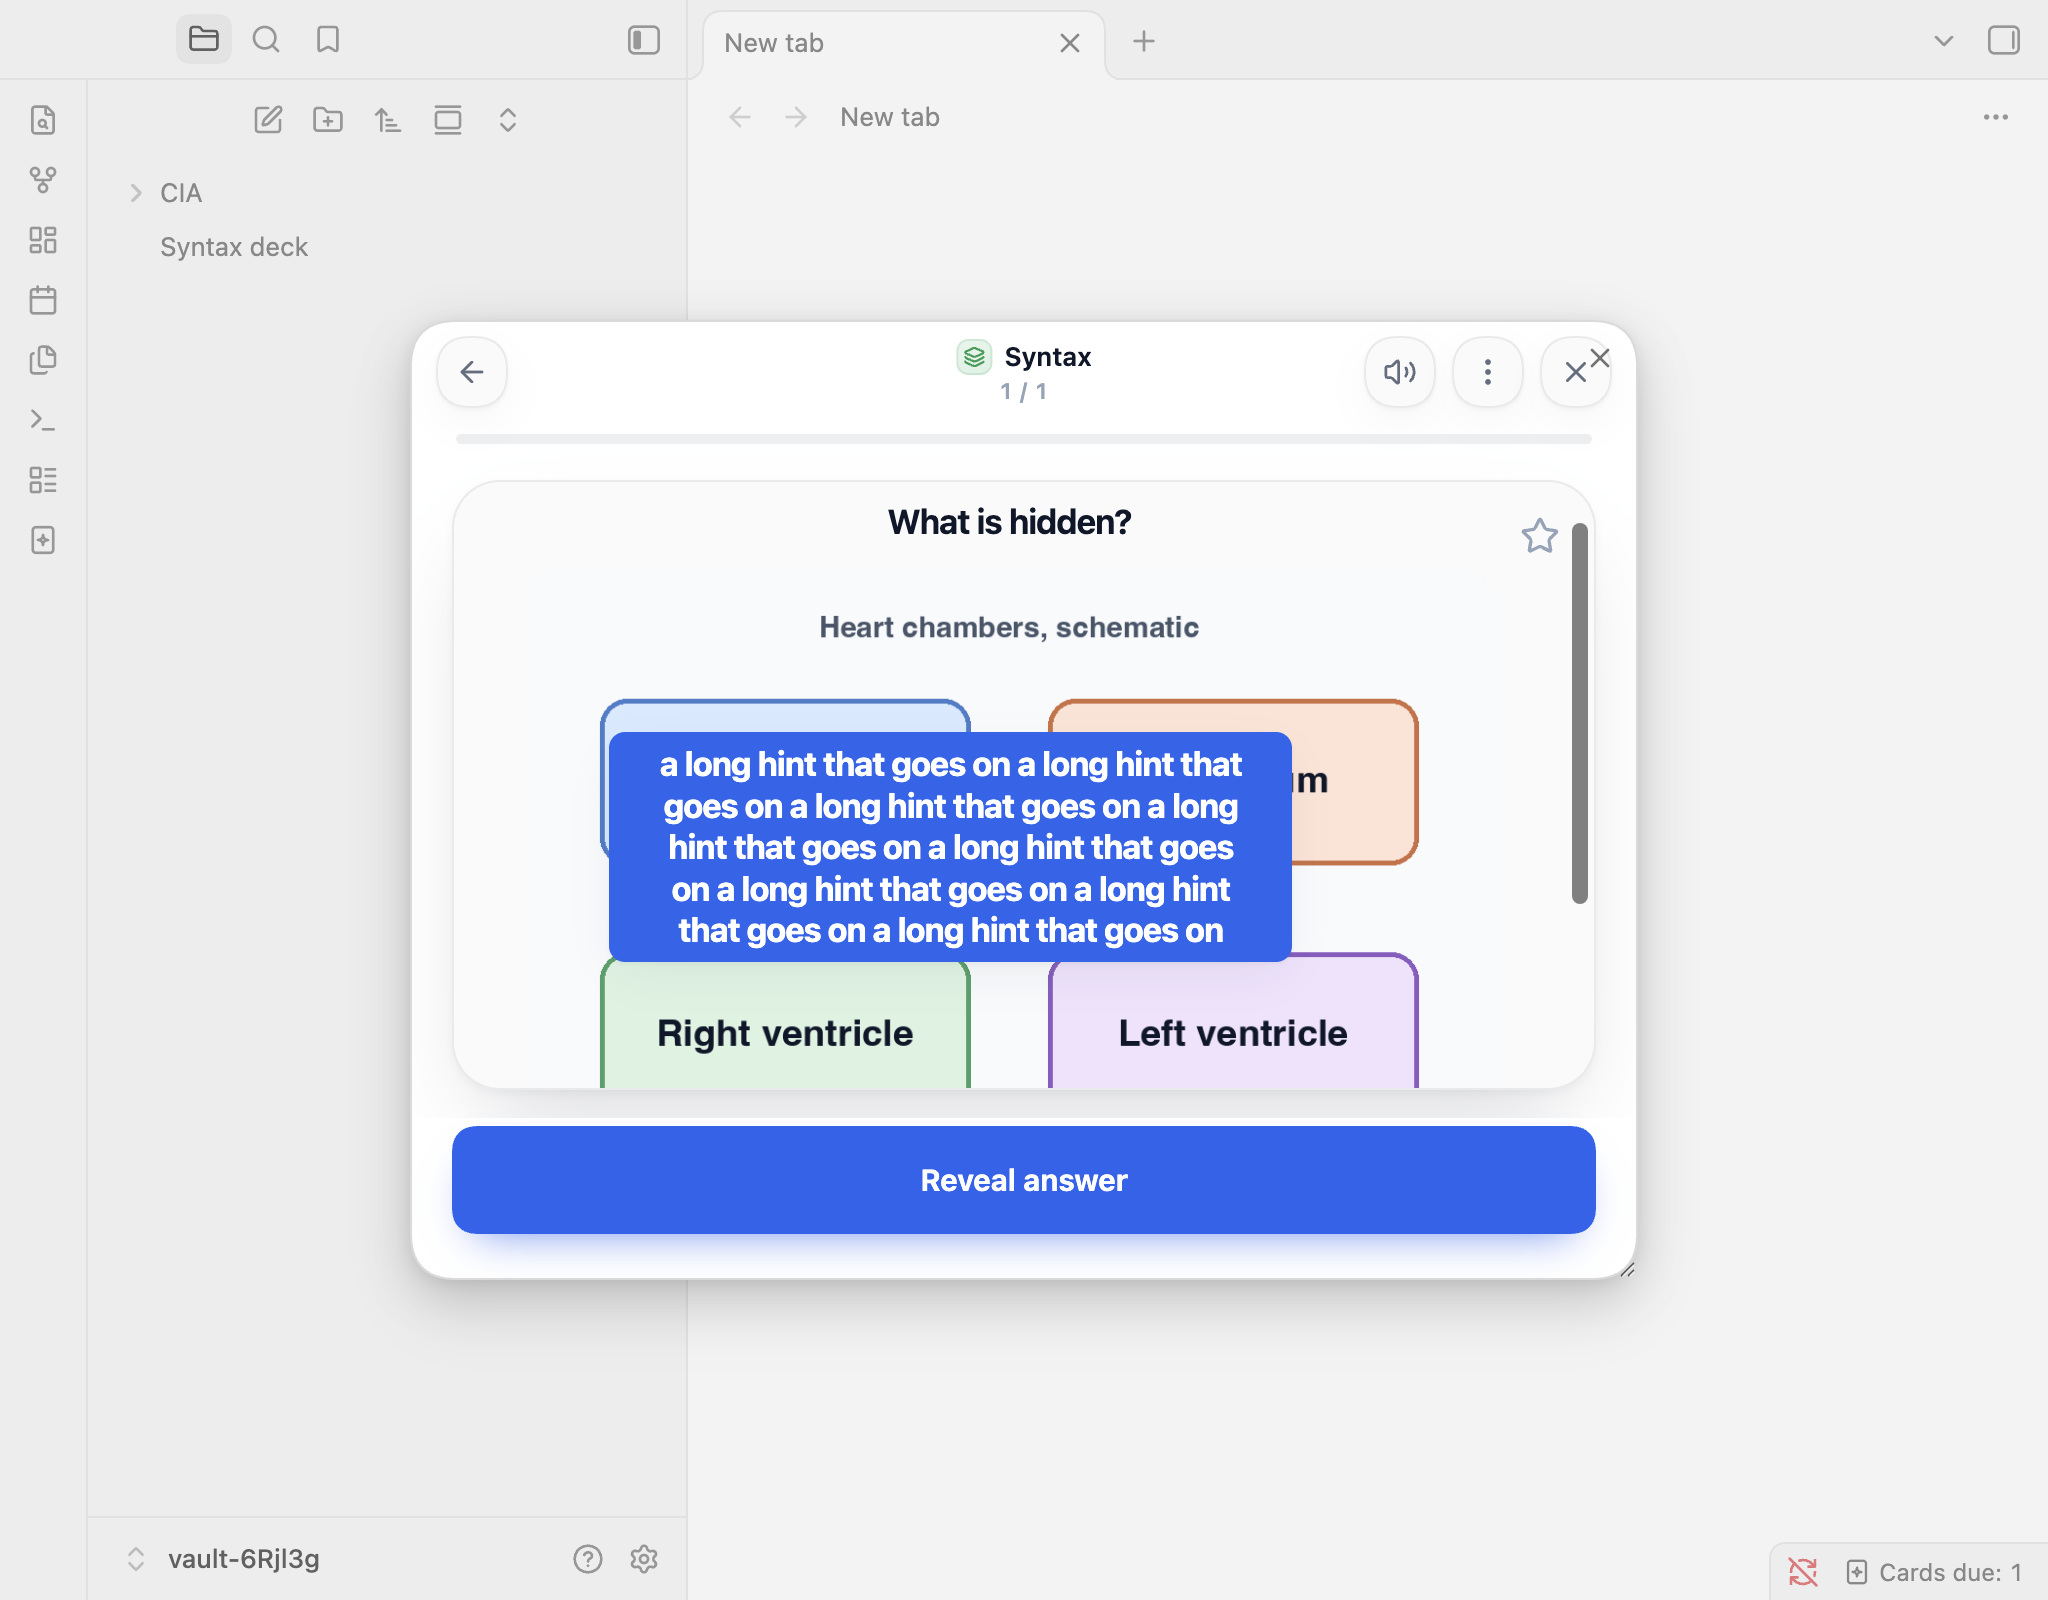
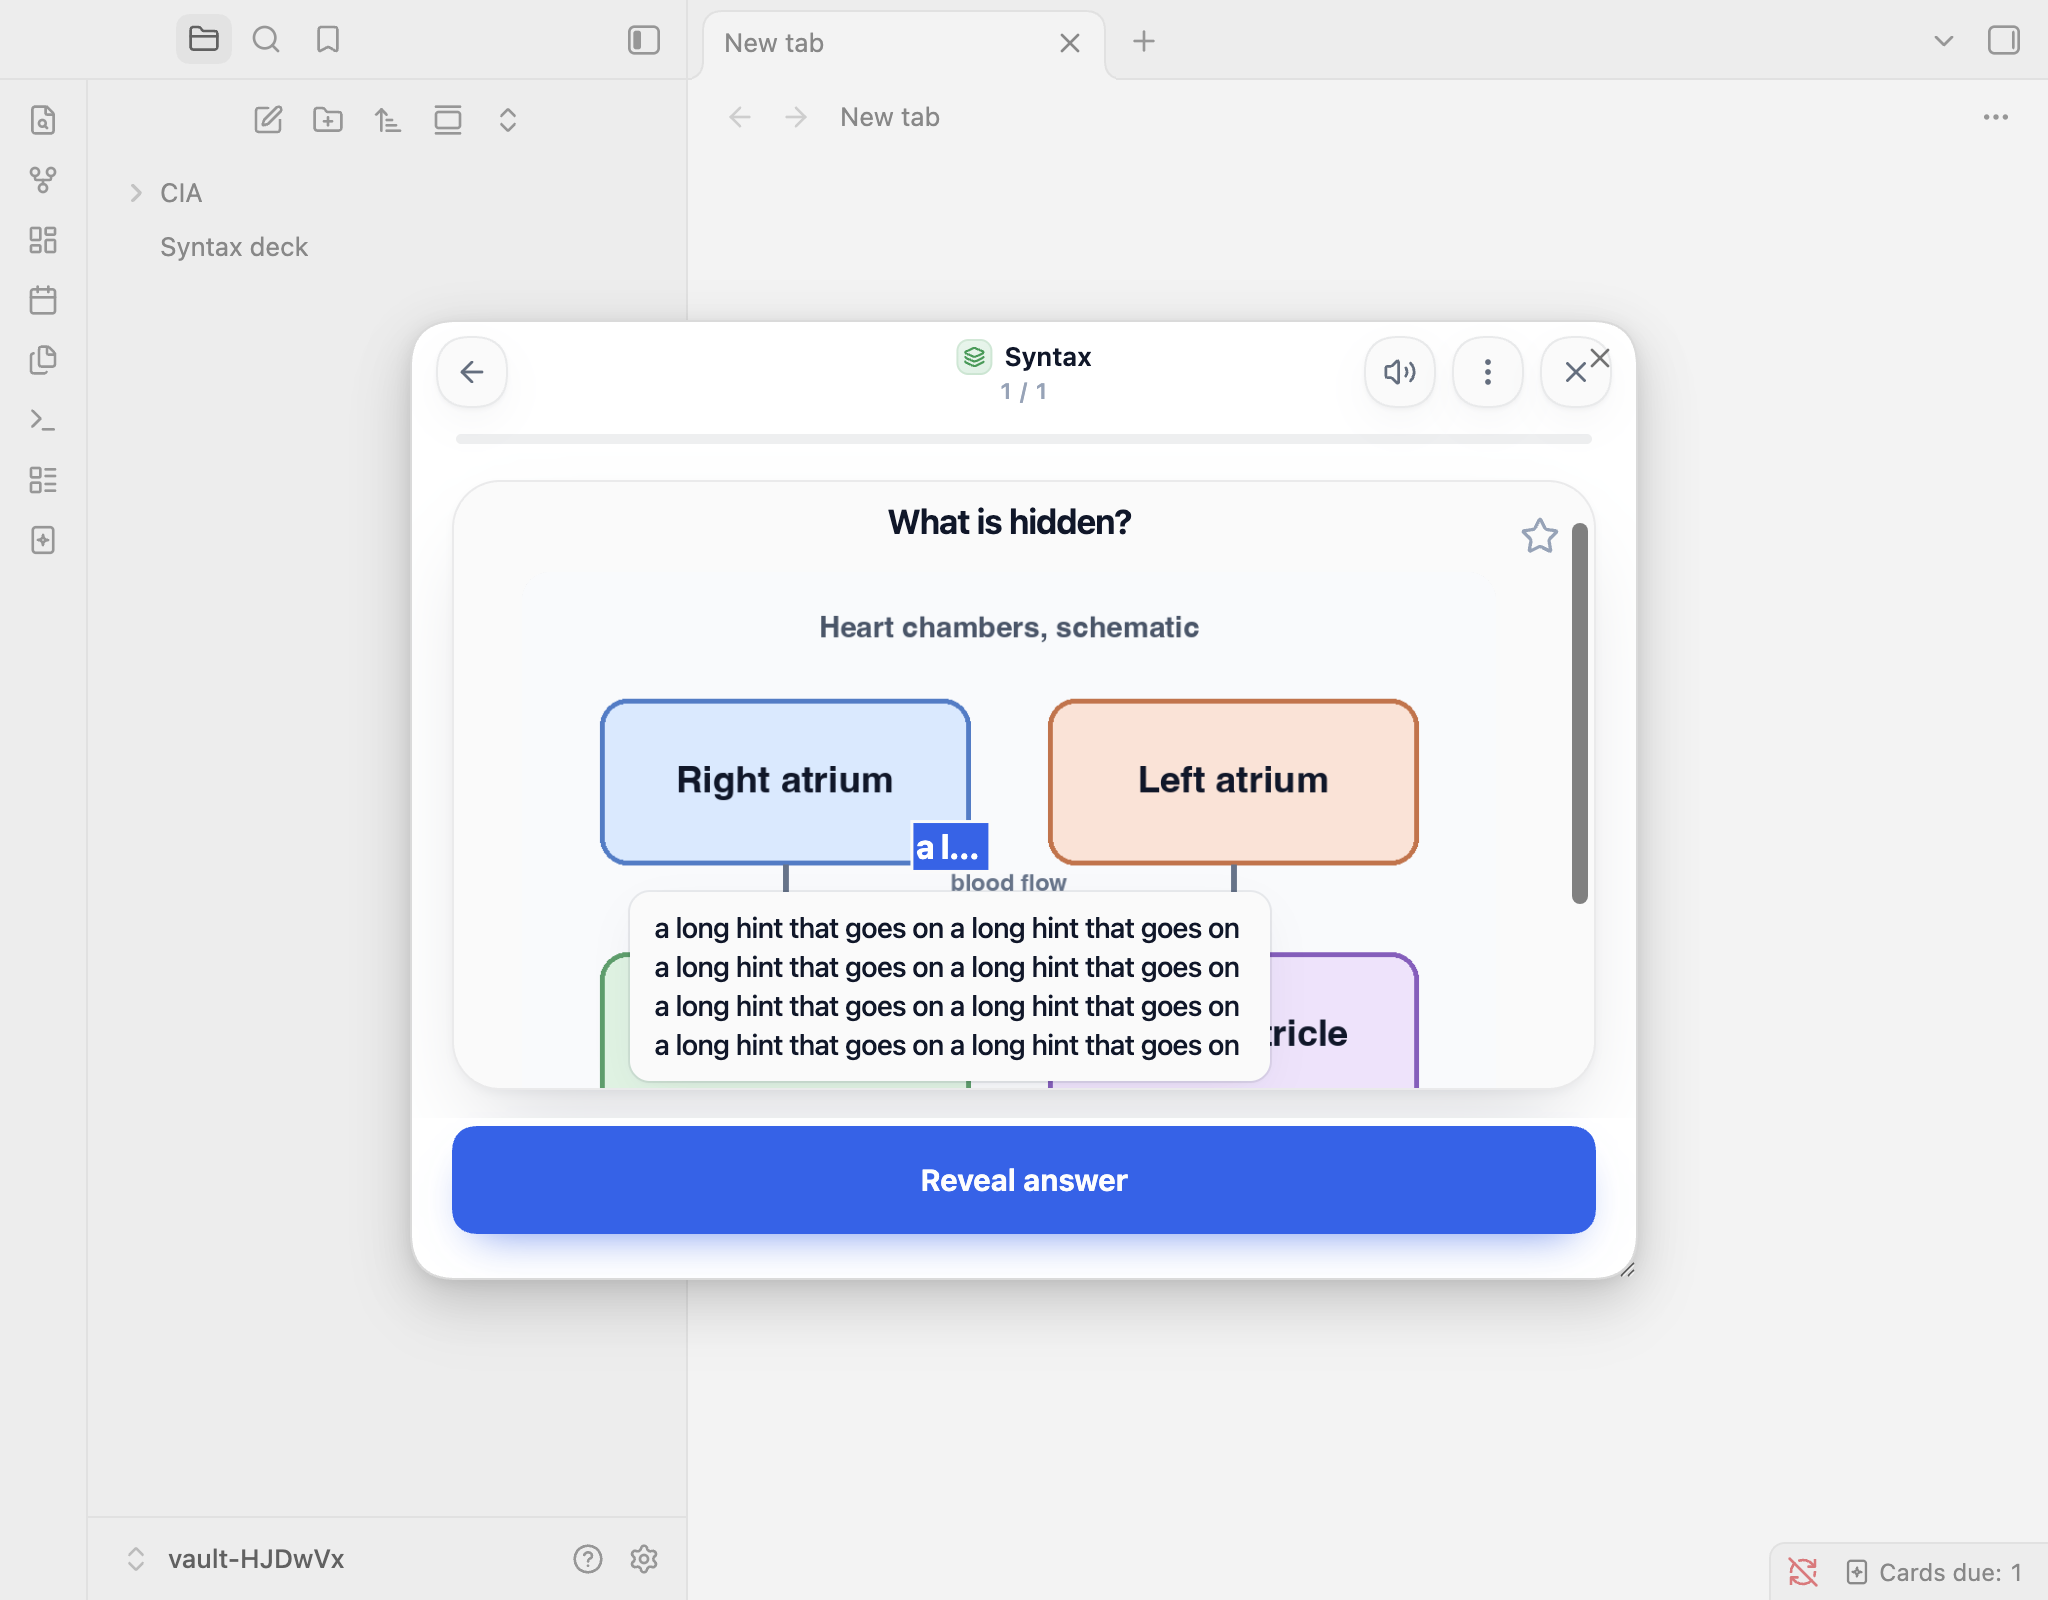
fix(image-cloze): a long hint is cut with an ellipsis; a tap shows it whole in a bubble at its mask

Changed region(s): [[0.2812, 0.4375, 0.6562, 0.6875], [0.125, 0.9688, 0.1562, 1.0]]

diff --git a/tests/e2e/specs/image-cloze.e2e.ts b/tests/e2e/specs/image-cloze.e2e.ts
@@ -209,7 +209,7 @@ describe("image cloze", function () {
         expect(picture.tags).toEqual(["first"]);
     });
 
-    it("a long hint on a small mask stays inside the mask and wraps", async function () {
+    it("a long hint on a small mask is cut with an ellipsis, and a tap shows it whole in a bubble", async function () {
         const hint = "a long hint that goes on ".repeat(8).trim();
         await useNote(
             [TAG, "", block(`mask: 1 | ra rect 0.4000 0.4000 0.0800 0.0800 | ${hint}`), ""].join(
@@ -234,33 +234,36 @@ describe("image cloze", function () {
                     tag.top >= mask.top - 1 &&
                     tag.right <= mask.right + 1 &&
                     tag.bottom <= mask.bottom + 1,
-                wraps: getComputedStyle(span).whiteSpace === "normal",
+                cut: getComputedStyle(span).textOverflow === "ellipsis",
                 title,
             };
         });
         expect(fit).not.toBeNull();
         expect(fit?.inside).toBe(true);
-        expect(fit?.wraps).toBe(true);
+        expect(fit?.cut).toBe(true);
         expect(fit?.title).toBe(hint);
         await screenshot("long-hint");
 
-        // A tap shows the whole hint over the picture, and the card stays on its front
+        // A tap opens a bubble with the whole hint, inside the picture, and the card stays on its front
         await browser.$(".fs-view .fs-card-container .fs-occ-tag").click();
-        const expanded = await browser.execute(() => {
-            const tag = document.querySelector(".fs-view .fs-card-container .fs-occ-tag");
-            const mask = document.querySelector(".fs-view .fs-card-container .fs-mask.is-active");
-            const text = tag?.querySelector(".fs-occ-tag-text")?.getBoundingClientRect();
-            const span = tag?.querySelector(".fs-occ-tag-text");
-            const background =
-                span === null || span === undefined ? "" : getComputedStyle(span).backgroundColor;
+        const bubble = await browser.execute(() => {
+            const card = ".fs-view .fs-card-container";
+            const el = document.querySelector<HTMLElement>(`${card} .fs-occ-hint-bubble`);
+            const stage = document.querySelector(`${card} .fs-occ-stage`)?.getBoundingClientRect();
+            if (el === null || stage === undefined) return null;
+            const box = el.getBoundingClientRect();
             return {
-                expanded: tag?.classList.contains("is-expanded") ?? false,
-                wider: (text?.width ?? 0) > (mask?.getBoundingClientRect().width ?? 0),
-                // The words have a solid background of their own, so they read over the picture
-                solid: /^rgb\(/.test(background),
+                text: el.textContent ?? "",
+                inside:
+                    box.left >= stage.left - 1 &&
+                    box.right <= stage.right + 1 &&
+                    box.top >= stage.top - 1 &&
+                    box.bottom <= stage.bottom + 1,
+                // A solid background of its own, so it reads over the picture
+                solid: /^rgb\(/.test(getComputedStyle(el).backgroundColor),
             };
         });
-        expect(expanded).toEqual({ expanded: true, wider: true, solid: true });
+        expect(bubble).toEqual({ text: hint, inside: true, solid: true });
         expect(
             await browser.$(".fs-view .fs-card-container .fs-show-answer-button").isDisplayed(),
         ).toBe(true);

diff --git a/src/occlusion/occlusion-view.ts b/src/occlusion/occlusion-view.ts
@@ -182,6 +182,45 @@ function scrollCardToMask(el: HTMLElement, scroller: HTMLElement, stage: HTMLEle
         (maskBox.left + maskBox.right) / 2 - stageBox.left - scroller.clientWidth / 2;
 }
 
+/**
+ * A bubble with a mask's whole hint, under the mask (above it when the mask is low on the picture), its arrow pointing
+ * at the mask, kept inside the picture. Normal-size text on the page's own surface, so the picture stays readable.
+ */
+function showHintBubble(
+    stage: HTMLElement,
+    mask: OcclusionBlock["masks"][number],
+    index: number,
+): void {
+    const bubble = stage.createDiv({ cls: "fs-occ-hint-bubble", text: plainLabel(mask.label) });
+    bubble.setAttribute("role", "tooltip");
+    bubble.setAttribute("data-mask", String(index));
+    // On the side of the mask with more room, and no taller than that room (a longer hint scrolls in the bubble), so
+    // the picture's frame never cuts it off. Before the picture is laid out, a mask low on it has its bubble above
+    const height = stage.clientHeight;
+    const gap = 16;
+    const below = height * (1 - mask.y - mask.h) - gap;
+    const above = height * mask.y - gap;
+    const onTop = height > 0 ? above > below : mask.y + mask.h > 0.6;
+    bubble.toggleClass("is-above", onTop);
+    bubble.setCssProps({
+        "--fs-occ-top": percent(mask.y + mask.h),
+        "--fs-occ-bottom": percent(1 - mask.y),
+        ...(height > 0 ? { "--fs-occ-room": `${Math.max(48, onTop ? above : below)}px` } : {}),
+    });
+    // Centred on the mask, but never past the picture's edges; the arrow stays on the mask
+    const width = stage.clientWidth;
+    const centre = (mask.x + mask.w / 2) * width;
+    const left = Math.max(
+        4,
+        Math.min(centre - bubble.offsetWidth / 2, width - bubble.offsetWidth - 4),
+    );
+    bubble.setCssProps({ "--fs-occ-left": `${left}px`, "--fs-occ-arrow": `${centre - left}px` });
+    bubble.addEventListener("click", (event) => {
+        event.stopPropagation();
+        bubble.remove();
+    });
+}
+
 /** How an image cloze card differs from an image occlusion card when it is drawn. Left out: as image occlusion. */
 export interface OcclusionRenderOptions {
     /** The text on each mask, by mask index ("" for none), in place of "?" and the labels. */
@@ -329,10 +368,14 @@ export function renderOcclusion(
         // A hint is clipped to its mask: the whole of it is in the tooltip
         if (options.cloze === true) {
             tag.setAttribute("title", mask.label);
-            // A tap shows the whole hint (a phone has no tooltip), and is not a tap on the card: it does not turn it
+            // A tap shows the whole hint in a bubble at its mask (a phone has no tooltip). It is not a tap on the card:
+            // it does not turn it. One bubble at a time; a second tap on the same mask closes it
             tag.addEventListener("click", (event) => {
                 event.stopPropagation();
-                tag.toggleClass("is-expanded", !tag.hasClass("is-expanded"));
+                const open = stage.querySelector(".fs-occ-hint-bubble");
+                const same = open?.getAttribute("data-mask") === String(index);
+                open?.remove();
+                if (!same) showHintBubble(stage, mask, index);
             });
         }
         tag.setCssProps({

diff --git a/src/occlusion/occlusion.css b/src/occlusion/occlusion.css
@@ -688,40 +688,66 @@
     }
 }
 
-/* An image cloze card: a hint is written inside its mask, wrapped and cut to the mask; the whole hint is its tooltip */
+/* An image cloze card: a hint is written inside its mask on one line, cut with "…" when it is longer; a tap opens it */
 .fs-occ.is-cloze .fs-occ-tag {
     overflow: hidden;
-    /* A hint is tapped to show all of it */
     pointer-events: auto;
     cursor: pointer;
-}
-
-/* A tapped hint: all of it, over the picture, as wide as it needs up to most of the picture */
-.fs-occ.is-cloze .fs-occ-tag.is-expanded {
-    overflow: visible;
-    z-index: 2;
-}
-
-.fs-occ.is-cloze .fs-occ-tag.is-expanded .fs-occ-tag-text {
-    flex: none;
-    width: max-content;
-    max-width: 70cqw;
-    max-height: none;
-    /* Its own background: past the mask, nothing is under the words */
-    padding: 0.35em 0.7em;
-    border-radius: 8px;
-    color: var(--fs-on-accent);
-    background-color: var(--fs-accent);
-    box-shadow: var(--fs-shadow);
 }
 
 .fs-occ.is-cloze .fs-occ-tag-text {
     flex: initial;
     max-width: 100%;
-    max-height: 100%;
-    white-space: normal;
-    overflow-wrap: anywhere;
-    text-align: center;
+    overflow: hidden;
+    white-space: nowrap;
+    text-overflow: ellipsis;
+}
+
+/* The whole hint, in a bubble at its mask: normal text on the page's surface, an arrow pointing at the mask */
+.fs-occ-hint-bubble {
+    position: absolute;
+    z-index: 3;
+    left: var(--fs-occ-left, 0);
+    top: calc(var(--fs-occ-top) + 10px);
+    width: max-content;
+    max-width: min(80%, 320px);
+    padding: 8px 12px;
+    border-radius: 10px;
+    font-size: 14px;
+    font-weight: 500;
+    line-height: 1.4;
+    max-height: var(--fs-occ-room, none);
+    overflow-y: auto;
+    text-align: left;
+    color: var(--fs-text);
+    background-color: var(--fs-surface);
+    box-shadow:
+        var(--fs-shadow),
+        0 0 0 1px var(--fs-border);
+    pointer-events: auto;
+}
+
+.fs-occ-hint-bubble.is-above {
+    top: auto;
+    bottom: calc(var(--fs-occ-bottom) + 10px);
+}
+
+.fs-occ-hint-bubble::before {
+    content: "";
+    position: absolute;
+    top: -6px;
+    left: var(--fs-occ-arrow, 50%);
+    width: 12px;
+    height: 12px;
+    background-color: var(--fs-surface);
+    box-shadow: -1px -1px 0 var(--fs-border);
+    transform: translateX(-50%) rotate(45deg);
+}
+
+.fs-occ-hint-bubble.is-above::before {
+    top: auto;
+    bottom: -6px;
+    box-shadow: 1px 1px 0 var(--fs-border);
 }
 
 /* The editor's line of what is wrong with a cloze block: only there when something is */

diff --git a/tests/unit/occlusion/image-cloze-view.test.ts b/tests/unit/occlusion/image-cloze-view.test.ts
@@ -206,19 +206,32 @@ describe("drawing into the page", () => {
         expect(el.querySelectorAll(".fs-mask.is-revealed")).toHaveLength(2);
     });
 
-    test("a tap on a hint shows all of it, and does not turn the card; a second tap shrinks it again", () => {
+    test("a tap on a hint opens a bubble with all of it at its mask, and does not turn the card; a second tap closes it", () => {
         const host = document.body.createDiv();
         let turned = 0;
         host.addEventListener("click", () => turned++);
         const el = host.createDiv();
         renderImageClozeCard(el, appWith(true), "note.md", spec(1, "front"));
-        const tag = el.querySelector<HTMLElement>(".fs-occ-tag");
-        if (tag === null) throw new Error("no hint tag");
-        tag.click();
-        expect(tag.classList.contains("is-expanded")).toBe(true);
+        const tags = el.querySelectorAll<HTMLElement>(".fs-occ-tag");
+        tags[0].click();
+        const bubble = el.querySelector(".fs-occ-hint-bubble");
+        expect(bubble?.textContent).toBe("chamber");
+        expect(bubble?.getAttribute("role")).toBe("tooltip");
         expect(turned).toBe(0);
-        tag.click();
-        expect(tag.classList.contains("is-expanded")).toBe(false);
+        // Another mask's hint: one bubble at a time
+        tags[1].click();
+        expect(el.querySelectorAll(".fs-occ-hint-bubble")).toHaveLength(1);
+        expect(el.querySelector(".fs-occ-hint-bubble")?.textContent).toBe("valve");
+        tags[1].click();
+        expect(el.querySelector(".fs-occ-hint-bubble")).toBeNull();
+    });
+
+    test("a mask low on the picture has its bubble above it", () => {
+        const block = read("image: x.png\nmask: 1 | a rect .1 .8 .1 .1 | low");
+        const el = document.body.createDiv();
+        renderImageClozeCard(el, appWith(true), "note.md", spec(1, "front", block));
+        el.querySelector<HTMLElement>(".fs-occ-tag")?.click();
+        expect(el.querySelector(".fs-occ-hint-bubble")?.classList.contains("is-above")).toBe(true);
     });
 
     test("an image that is not in the vault, on a card and in the note", () => {

diff --git a/styles.css b/styles.css
@@ -4867,28 +4867,54 @@ body.fs-reduced-bottom-fade-mask {
   pointer-events: auto;
   cursor: pointer;
 }
-.fs-occ.is-cloze .fs-occ-tag.is-expanded {
-  overflow: visible;
-  z-index: 2;
-}
-.fs-occ.is-cloze .fs-occ-tag.is-expanded .fs-occ-tag-text {
-  flex: none;
-  width: max-content;
-  max-width: 70cqw;
-  max-height: none;
-  padding: 0.35em 0.7em;
-  border-radius: 8px;
-  color: var(--fs-on-accent);
-  background-color: var(--fs-accent);
-  box-shadow: var(--fs-shadow);
-}
 .fs-occ.is-cloze .fs-occ-tag-text {
   flex: initial;
   max-width: 100%;
-  max-height: 100%;
-  white-space: normal;
-  overflow-wrap: anywhere;
-  text-align: center;
+  overflow: hidden;
+  white-space: nowrap;
+  text-overflow: ellipsis;
+}
+.fs-occ-hint-bubble {
+  position: absolute;
+  z-index: 3;
+  left: var(--fs-occ-left, 0);
+  top: calc(var(--fs-occ-top) + 10px);
+  width: max-content;
+  max-width: min(80%, 320px);
+  padding: 8px 12px;
+  border-radius: 10px;
+  font-size: 14px;
+  font-weight: 500;
+  line-height: 1.4;
+  max-height: var(--fs-occ-room, none);
+  overflow-y: auto;
+  text-align: left;
+  color: var(--fs-text);
+  background-color: var(--fs-surface);
+  box-shadow:
+    var(--fs-shadow),
+    0 0 0 1px var(--fs-border);
+  pointer-events: auto;
+}
+.fs-occ-hint-bubble.is-above {
+  top: auto;
+  bottom: calc(var(--fs-occ-bottom) + 10px);
+}
+.fs-occ-hint-bubble:before {
+  content: "";
+  position: absolute;
+  top: -6px;
+  left: var(--fs-occ-arrow, 50%);
+  width: 12px;
+  height: 12px;
+  background-color: var(--fs-surface);
+  box-shadow: -1px -1px 0 var(--fs-border);
+  transform: translate(-50%) rotate(45deg);
+}
+.fs-occ-hint-bubble.is-above:before {
+  top: auto;
+  bottom: -6px;
+  box-shadow: 1px 1px 0 var(--fs-border);
 }
 .fs-occ-problem.is-empty {
   display: none;
